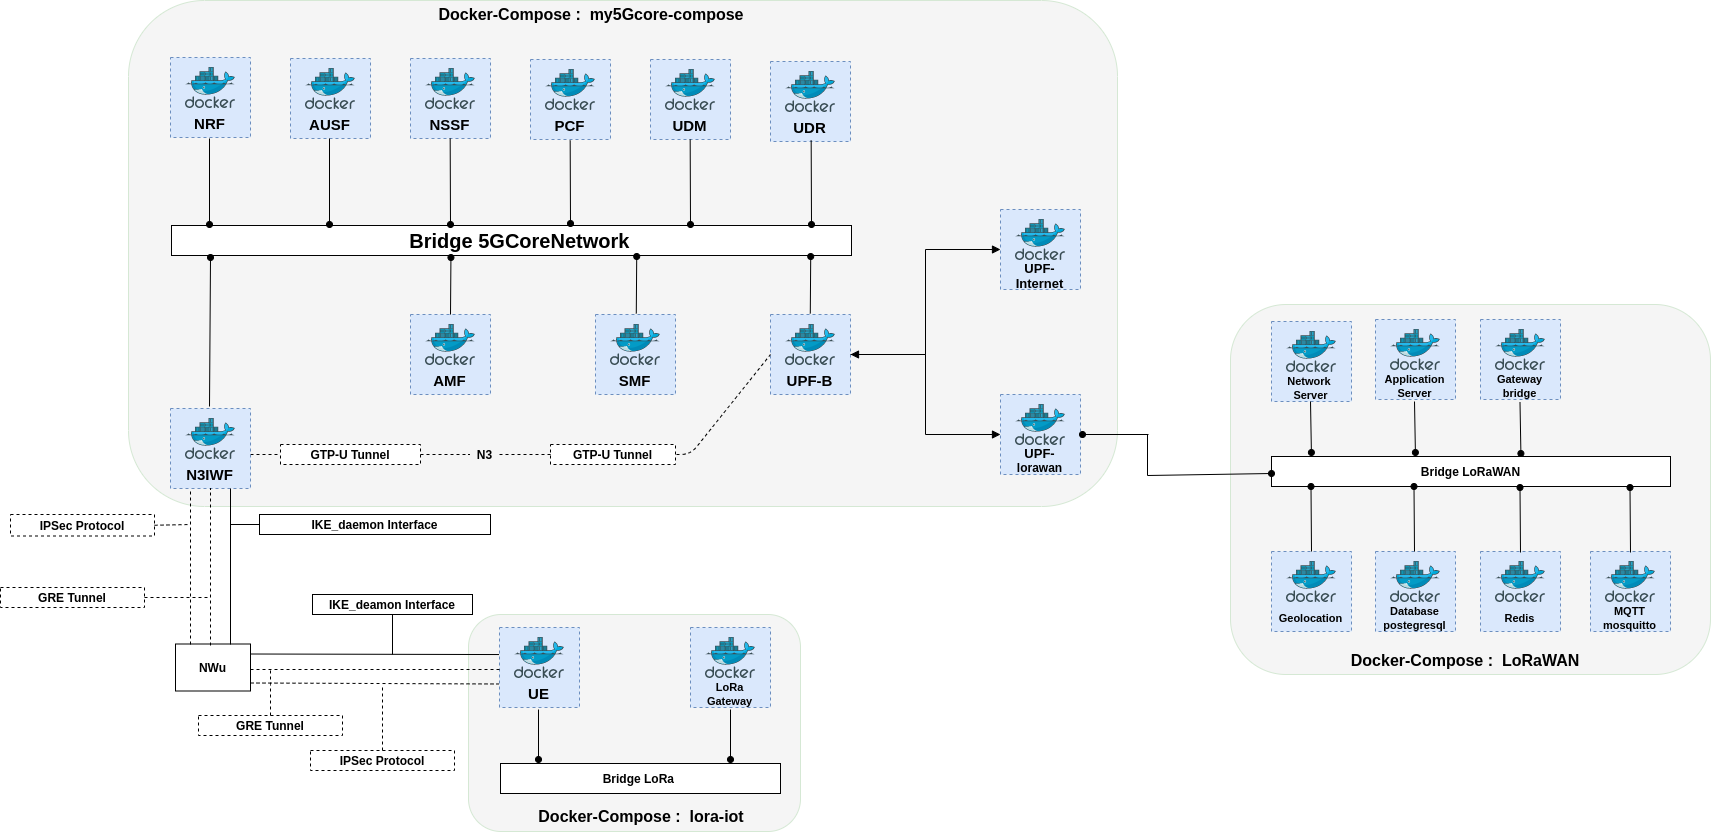
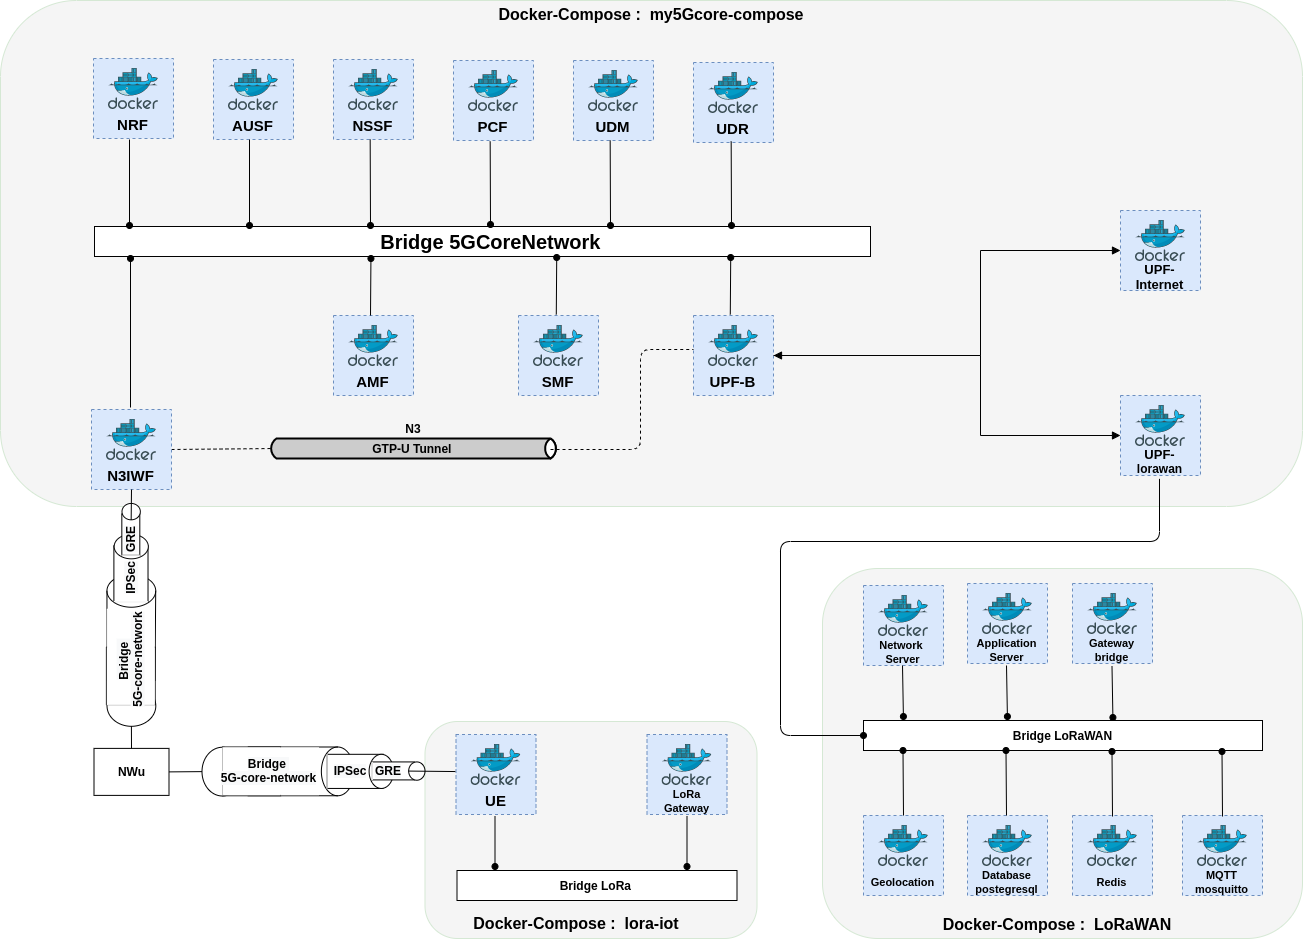
Updating fig Dockers-LAB

diff --git a/docs/non3gpp-iot-use-case/README.md b/docs/non3gpp-iot-use-case/README.md
@@ -35,7 +35,7 @@ This experiment aims to demonstrate a non-3GPP access based on  N3IWF network fc
 of the SBA-based 5G core software, as illustrated by the following image.
 
 <p align="center">
-    <img src="../figs/Dockers-LAb.png" height="300"/> 
+    <img src="../figs/Dockers-LAb.png" height="600"/> 
 </p>
 
 ### Recommended Environment

diff --git a/docs/non3gpp-iot-use-case/non3gpp-iot-use-case.md b/docs/non3gpp-iot-use-case/non3gpp-iot-use-case.md
@@ -35,7 +35,7 @@ This experiment aims to demonstrate a non-3GPP access based on  N3IWF network fc
 of the SBA-based 5G core software, as illustrated by the following image.
 
 <p align="center">
-    <img src="../figs/Dockers-LAb.png" height="300"/> 
+    <img src="../figs/Dockers-LAb.png" height="600"/> 
 </p>
 
 ### Recommended Environment
